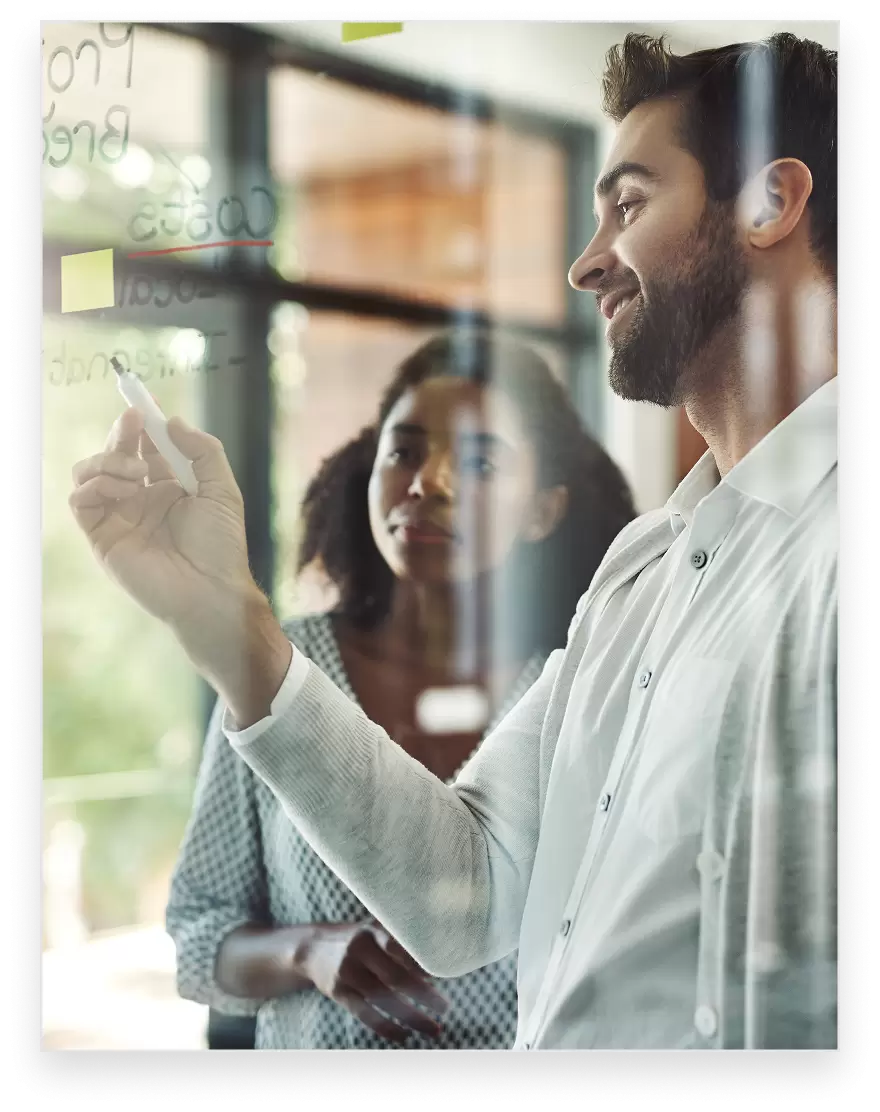
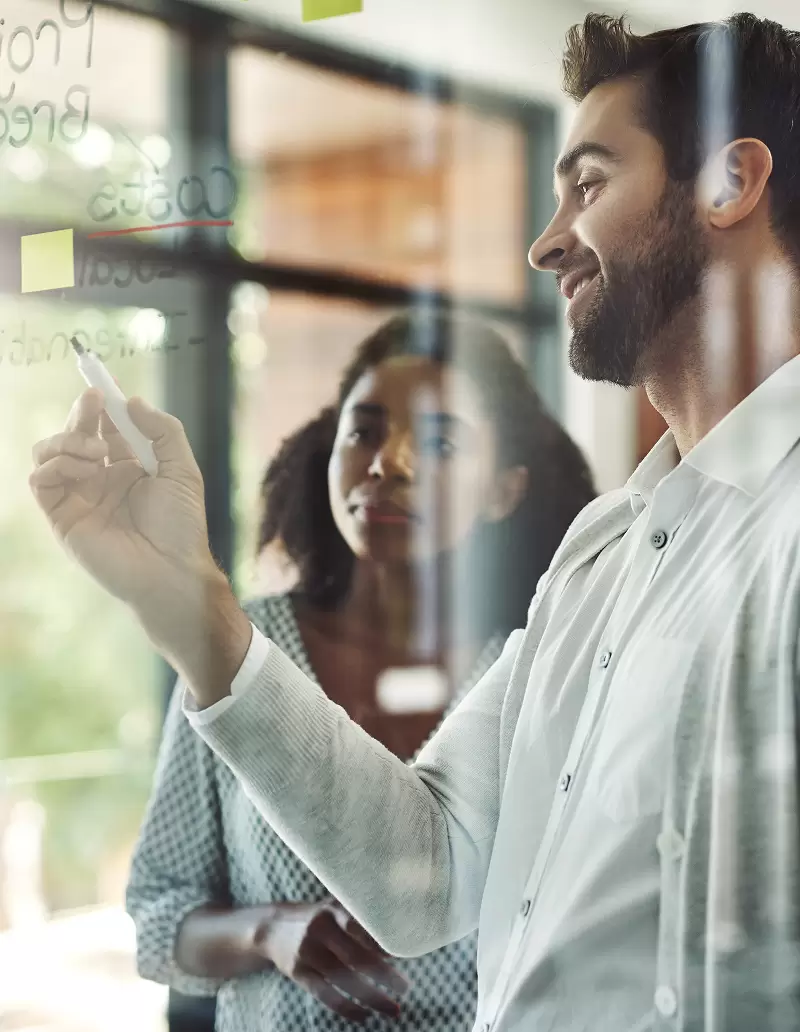
updated

diff --git a/src/components/Sections/HomePage/SmartMonitoring2.vue b/src/components/Sections/HomePage/SmartMonitoring2.vue
@@ -90,6 +90,48 @@ useMotionValueEvent(scrollYProgress, "change", (latest) => {
                         <SmartMonitoringButton v-for="(video, index) in videos" :key="video.id"
                             :active="activeVideo === index" @click="activeVideo = index">
                             <span>{{ video.label }}</span>
+
+
+                            <svg v-if="index === 0" class="size-[28px] md:size-[3cqw]" viewBox="0 0 27 28" fill="none"
+                                xmlns="http://www.w3.org/2000/svg">
+                                <path d="M14.7393 10L18.7393 14L14.7393 18M8.07302 10L12.073 14L8.07302 18"
+                                    stroke="#344054" stroke-width="2.5" stroke-linecap="round"
+                                    stroke-linejoin="round" />
+                                <path
+                                    d="M24.0731 2L2.73937 2C2.00337 2 1.40625 2.59712 1.40625 3.33312L1.40625 24.6669C1.40625 25.4029 2.00337 26 2.73937 26L24.0731 26C24.8091 26 25.4062 25.4029 25.4062 24.6669L25.4062 3.33312C25.4062 2.59712 24.8091 2 24.0731 2Z"
+                                    stroke="#FF7E00" stroke-width="2.5" stroke-linecap="round"
+                                    stroke-linejoin="round" />
+                            </svg>
+
+
+                            <svg v-if="index === 1" class="size-[28px] md:size-[3cqw]" viewBox="0 0 29 32" fill="none"
+                                xmlns="http://www.w3.org/2000/svg">
+                                <path
+                                    d="M6.90625 22C6.90625 21.4696 7.11696 20.9609 7.49204 20.5858C7.86711 20.2107 8.37582 20 8.90625 20C9.43668 20 9.94539 20.2107 10.3205 20.5858C10.6955 20.9609 10.9062 21.4696 10.9062 22V24C10.9062 24.5304 10.6955 25.0391 10.3205 25.4142C9.94539 25.7893 9.43668 26 8.90625 26C8.37582 26 7.86711 25.7893 7.49204 25.4142C7.11696 25.0391 6.90625 24.5304 6.90625 24V22ZM18.9062 14C18.9062 13.4696 19.117 12.9609 19.492 12.5858C19.8671 12.2107 20.3758 12 20.9062 12C21.4367 12 21.9454 12.2107 22.3205 12.5858C22.6955 12.9609 22.9062 13.4696 22.9062 14V24C22.9062 24.5304 22.6955 25.0391 22.3205 25.4142C21.9454 25.7893 21.4367 26 20.9062 26C20.3758 26 19.8671 25.7893 19.492 25.4142C19.117 25.0391 18.9062 24.5304 18.9062 24V14ZM12.9062 18C12.9062 17.4696 13.117 16.9609 13.492 16.5858C13.8671 16.2107 14.3758 16 14.9062 16C15.4367 16 15.9454 16.2107 16.3205 16.5858C16.6955 16.9609 16.9062 17.4696 16.9062 18V24C16.9062 24.5304 16.6955 25.0391 16.3205 25.4142C15.9454 25.7893 15.4367 26 14.9062 26C14.3758 26 13.8671 25.7893 13.492 25.4142C13.117 25.0391 12.9062 24.5304 12.9062 24V18Z"
+                                    fill="#344054" />
+                                <path
+                                    d="M6.90625 3H4.90625C3.84538 3 2.82797 3.42143 2.07782 4.17157C1.32768 4.92172 0.90625 5.93913 0.90625 7V28C0.90625 29.0609 1.32768 30.0783 2.07782 30.8284C2.82797 31.5786 3.84538 32 4.90625 32H24.9062C25.9671 32 26.9845 31.5786 27.7347 30.8284C28.4848 30.0783 28.9062 29.0609 28.9062 28V7C28.9062 5.93913 28.4848 4.92172 27.7347 4.17157C26.9845 3.42143 25.9671 3 24.9062 3H22.9062V5H24.9062C25.4367 5 25.9454 5.21071 26.3205 5.58579C26.6955 5.96086 26.9062 6.46957 26.9062 7V28C26.9062 28.5304 26.6955 29.0391 26.3205 29.4142C25.9454 29.7893 25.4367 30 24.9062 30H4.90625C4.37582 30 3.86711 29.7893 3.49204 29.4142C3.11696 29.0391 2.90625 28.5304 2.90625 28V7C2.90625 6.46957 3.11696 5.96086 3.49204 5.58579C3.86711 5.21071 4.37582 5 4.90625 5H6.90625V3Z"
+                                    fill="#FF7E00" />
+                                <path
+                                    d="M17.9062 2C18.1715 2 18.4258 2.10536 18.6134 2.29289C18.8009 2.48043 18.9062 2.73478 18.9062 3V5C18.9062 5.26522 18.8009 5.51957 18.6134 5.70711C18.4258 5.89464 18.1715 6 17.9062 6H11.9062C11.641 6 11.3867 5.89464 11.1991 5.70711C11.0116 5.51957 10.9062 5.26522 10.9062 5V3C10.9062 2.73478 11.0116 2.48043 11.1991 2.29289C11.3867 2.10536 11.641 2 11.9062 2H17.9062ZM11.9062 0C11.1106 0 10.3475 0.31607 9.78493 0.87868C9.22232 1.44129 8.90625 2.20435 8.90625 3V5C8.90625 5.79565 9.22232 6.55871 9.78493 7.12132C10.3475 7.68393 11.1106 8 11.9062 8H17.9062C18.7019 8 19.465 7.68393 20.0276 7.12132C20.5902 6.55871 20.9062 5.79565 20.9062 5V3C20.9062 2.20435 20.5902 1.44129 20.0276 0.87868C19.465 0.31607 18.7019 0 17.9062 0L11.9062 0Z"
+                                    fill="#FF7E00" />
+                            </svg>
+
+
+                            <svg v-if="index === 2" class="size-[28px] md:size-[3cqw]" viewBox="0 0 27 28" fill="none"
+                                xmlns="http://www.w3.org/2000/svg">
+                                <path
+                                    d="M1.40625 12.6668H9.40625M14.7394 13.9999L16.1928 15.6664L18.74 12.3333M2.73937 7.33301H9.40625V20.6668H2.73937C2.56425 20.6668 2.39084 20.6323 2.22906 20.5652C2.06728 20.4982 1.92029 20.3999 1.79649 20.2761C1.67269 20.1522 1.5745 20.0052 1.50754 19.8434C1.44059 19.6816 1.40617 19.5081 1.40625 19.333V8.66677C1.40625 8.31314 1.54668 7.97399 1.79667 7.72388C2.04666 7.47377 2.38575 7.33318 2.73937 7.33301Z"
+                                    stroke="#344054" stroke-width="2.5" stroke-linecap="round"
+                                    stroke-linejoin="round" />
+                                <path
+                                    d="M25.4062 24.6669V3.33312C25.4062 2.97955 25.2658 2.64047 25.0158 2.39046C24.7658 2.14045 24.4267 2 24.0731 2H10.7394C10.3858 2 10.0467 2.14045 9.79671 2.39046C9.5467 2.64047 9.40625 2.97955 9.40625 3.33312V24.6669C9.40625 25.0204 9.5467 25.3595 9.79671 25.6095C10.0467 25.8595 10.3858 26 10.7394 26H24.0731C24.4267 26 24.7658 25.8595 25.0158 25.6095C25.2658 25.3595 25.4062 25.0204 25.4062 24.6669ZM15.4062 4.66688H19.4062L20.0731 2H14.7394L15.4062 4.66688Z"
+                                    stroke="#FF7E00" stroke-width="2.5" stroke-linecap="round"
+                                    stroke-linejoin="round" />
+                            </svg>
+
+
+
                         </SmartMonitoringButton>
                     </div>
                 </motion.div>
@@ -102,44 +144,3 @@ useMotionValueEvent(scrollYProgress, "change", (latest) => {
         </svg>
     </section>
 </template>
-
-
-
-<!-- 
-<svg class="size-[28px] md:size-[3cqw]" viewBox="0 0 27 28" fill="none"
-    xmlns="http://www.w3.org/2000/svg">
-    <path d="M14.7393 10L18.7393 14L14.7393 18M8.07302 10L12.073 14L8.07302 18"
-        stroke="#344054" stroke-width="2.5" stroke-linecap="round"
-        stroke-linejoin="round" />
-    <path
-        d="M24.0731 2L2.73937 2C2.00337 2 1.40625 2.59712 1.40625 3.33312L1.40625 24.6669C1.40625 25.4029 2.00337 26 2.73937 26L24.0731 26C24.8091 26 25.4062 25.4029 25.4062 24.6669L25.4062 3.33312C25.4062 2.59712 24.8091 2 24.0731 2Z"
-        stroke="#FF7E00" stroke-width="2.5" stroke-linecap="round"
-        stroke-linejoin="round" />
-</svg>
-
-
-<svg class="size-[28px] md:size-[3cqw]" viewBox="0 0 29 32" fill="none"
-    xmlns="http://www.w3.org/2000/svg">
-    <path
-        d="M6.90625 22C6.90625 21.4696 7.11696 20.9609 7.49204 20.5858C7.86711 20.2107 8.37582 20 8.90625 20C9.43668 20 9.94539 20.2107 10.3205 20.5858C10.6955 20.9609 10.9062 21.4696 10.9062 22V24C10.9062 24.5304 10.6955 25.0391 10.3205 25.4142C9.94539 25.7893 9.43668 26 8.90625 26C8.37582 26 7.86711 25.7893 7.49204 25.4142C7.11696 25.0391 6.90625 24.5304 6.90625 24V22ZM18.9062 14C18.9062 13.4696 19.117 12.9609 19.492 12.5858C19.8671 12.2107 20.3758 12 20.9062 12C21.4367 12 21.9454 12.2107 22.3205 12.5858C22.6955 12.9609 22.9062 13.4696 22.9062 14V24C22.9062 24.5304 22.6955 25.0391 22.3205 25.4142C21.9454 25.7893 21.4367 26 20.9062 26C20.3758 26 19.8671 25.7893 19.492 25.4142C19.117 25.0391 18.9062 24.5304 18.9062 24V14ZM12.9062 18C12.9062 17.4696 13.117 16.9609 13.492 16.5858C13.8671 16.2107 14.3758 16 14.9062 16C15.4367 16 15.9454 16.2107 16.3205 16.5858C16.6955 16.9609 16.9062 17.4696 16.9062 18V24C16.9062 24.5304 16.6955 25.0391 16.3205 25.4142C15.9454 25.7893 15.4367 26 14.9062 26C14.3758 26 13.8671 25.7893 13.492 25.4142C13.117 25.0391 12.9062 24.5304 12.9062 24V18Z"
-        fill="#344054" />
-    <path
-        d="M6.90625 3H4.90625C3.84538 3 2.82797 3.42143 2.07782 4.17157C1.32768 4.92172 0.90625 5.93913 0.90625 7V28C0.90625 29.0609 1.32768 30.0783 2.07782 30.8284C2.82797 31.5786 3.84538 32 4.90625 32H24.9062C25.9671 32 26.9845 31.5786 27.7347 30.8284C28.4848 30.0783 28.9062 29.0609 28.9062 28V7C28.9062 5.93913 28.4848 4.92172 27.7347 4.17157C26.9845 3.42143 25.9671 3 24.9062 3H22.9062V5H24.9062C25.4367 5 25.9454 5.21071 26.3205 5.58579C26.6955 5.96086 26.9062 6.46957 26.9062 7V28C26.9062 28.5304 26.6955 29.0391 26.3205 29.4142C25.9454 29.7893 25.4367 30 24.9062 30H4.90625C4.37582 30 3.86711 29.7893 3.49204 29.4142C3.11696 29.0391 2.90625 28.5304 2.90625 28V7C2.90625 6.46957 3.11696 5.96086 3.49204 5.58579C3.86711 5.21071 4.37582 5 4.90625 5H6.90625V3Z"
-        fill="#FF7E00" />
-    <path
-        d="M17.9062 2C18.1715 2 18.4258 2.10536 18.6134 2.29289C18.8009 2.48043 18.9062 2.73478 18.9062 3V5C18.9062 5.26522 18.8009 5.51957 18.6134 5.70711C18.4258 5.89464 18.1715 6 17.9062 6H11.9062C11.641 6 11.3867 5.89464 11.1991 5.70711C11.0116 5.51957 10.9062 5.26522 10.9062 5V3C10.9062 2.73478 11.0116 2.48043 11.1991 2.29289C11.3867 2.10536 11.641 2 11.9062 2H17.9062ZM11.9062 0C11.1106 0 10.3475 0.31607 9.78493 0.87868C9.22232 1.44129 8.90625 2.20435 8.90625 3V5C8.90625 5.79565 9.22232 6.55871 9.78493 7.12132C10.3475 7.68393 11.1106 8 11.9062 8H17.9062C18.7019 8 19.465 7.68393 20.0276 7.12132C20.5902 6.55871 20.9062 5.79565 20.9062 5V3C20.9062 2.20435 20.5902 1.44129 20.0276 0.87868C19.465 0.31607 18.7019 0 17.9062 0L11.9062 0Z"
-        fill="#FF7E00" />
-</svg>
-
-
-<svg class="size-[28px] md:size-[3cqw]" viewBox="0 0 27 28" fill="none"
-    xmlns="http://www.w3.org/2000/svg">
-    <path
-        d="M1.40625 12.6668H9.40625M14.7394 13.9999L16.1928 15.6664L18.74 12.3333M2.73937 7.33301H9.40625V20.6668H2.73937C2.56425 20.6668 2.39084 20.6323 2.22906 20.5652C2.06728 20.4982 1.92029 20.3999 1.79649 20.2761C1.67269 20.1522 1.5745 20.0052 1.50754 19.8434C1.44059 19.6816 1.40617 19.5081 1.40625 19.333V8.66677C1.40625 8.31314 1.54668 7.97399 1.79667 7.72388C2.04666 7.47377 2.38575 7.33318 2.73937 7.33301Z"
-        stroke="#344054" stroke-width="2.5" stroke-linecap="round"
-        stroke-linejoin="round" />
-    <path
-        d="M25.4062 24.6669V3.33312C25.4062 2.97955 25.2658 2.64047 25.0158 2.39046C24.7658 2.14045 24.4267 2 24.0731 2H10.7394C10.3858 2 10.0467 2.14045 9.79671 2.39046C9.5467 2.64047 9.40625 2.97955 9.40625 3.33312V24.6669C9.40625 25.0204 9.5467 25.3595 9.79671 25.6095C10.0467 25.8595 10.3858 26 10.7394 26H24.0731C24.4267 26 24.7658 25.8595 25.0158 25.6095C25.2658 25.3595 25.4062 25.0204 25.4062 24.6669ZM15.4062 4.66688H19.4062L20.0731 2H14.7394L15.4062 4.66688Z"
-        stroke="#FF7E00" stroke-width="2.5" stroke-linecap="round"
-        stroke-linejoin="round" />
-</svg> -->

diff --git a/src/components/Ui/PhyxUpCard.vue b/src/components/Ui/PhyxUpCard.vue
@@ -14,8 +14,8 @@ const props = defineProps<phyxUpCard>()
 
 <template>
     <div class="w-full space-y-6 md:space-y-10">
-        <div class="w-full drop-shadow-lg">
-            <img :src="img_src" alt="">
+        <div class="w-full drop-shadow-lg max-h-[516px]">
+            <img :src="img_src" alt="img" class="w-full h-full object-cover">
         </div>
         <div class="space-y-2 md:space-y-4">
             <div
